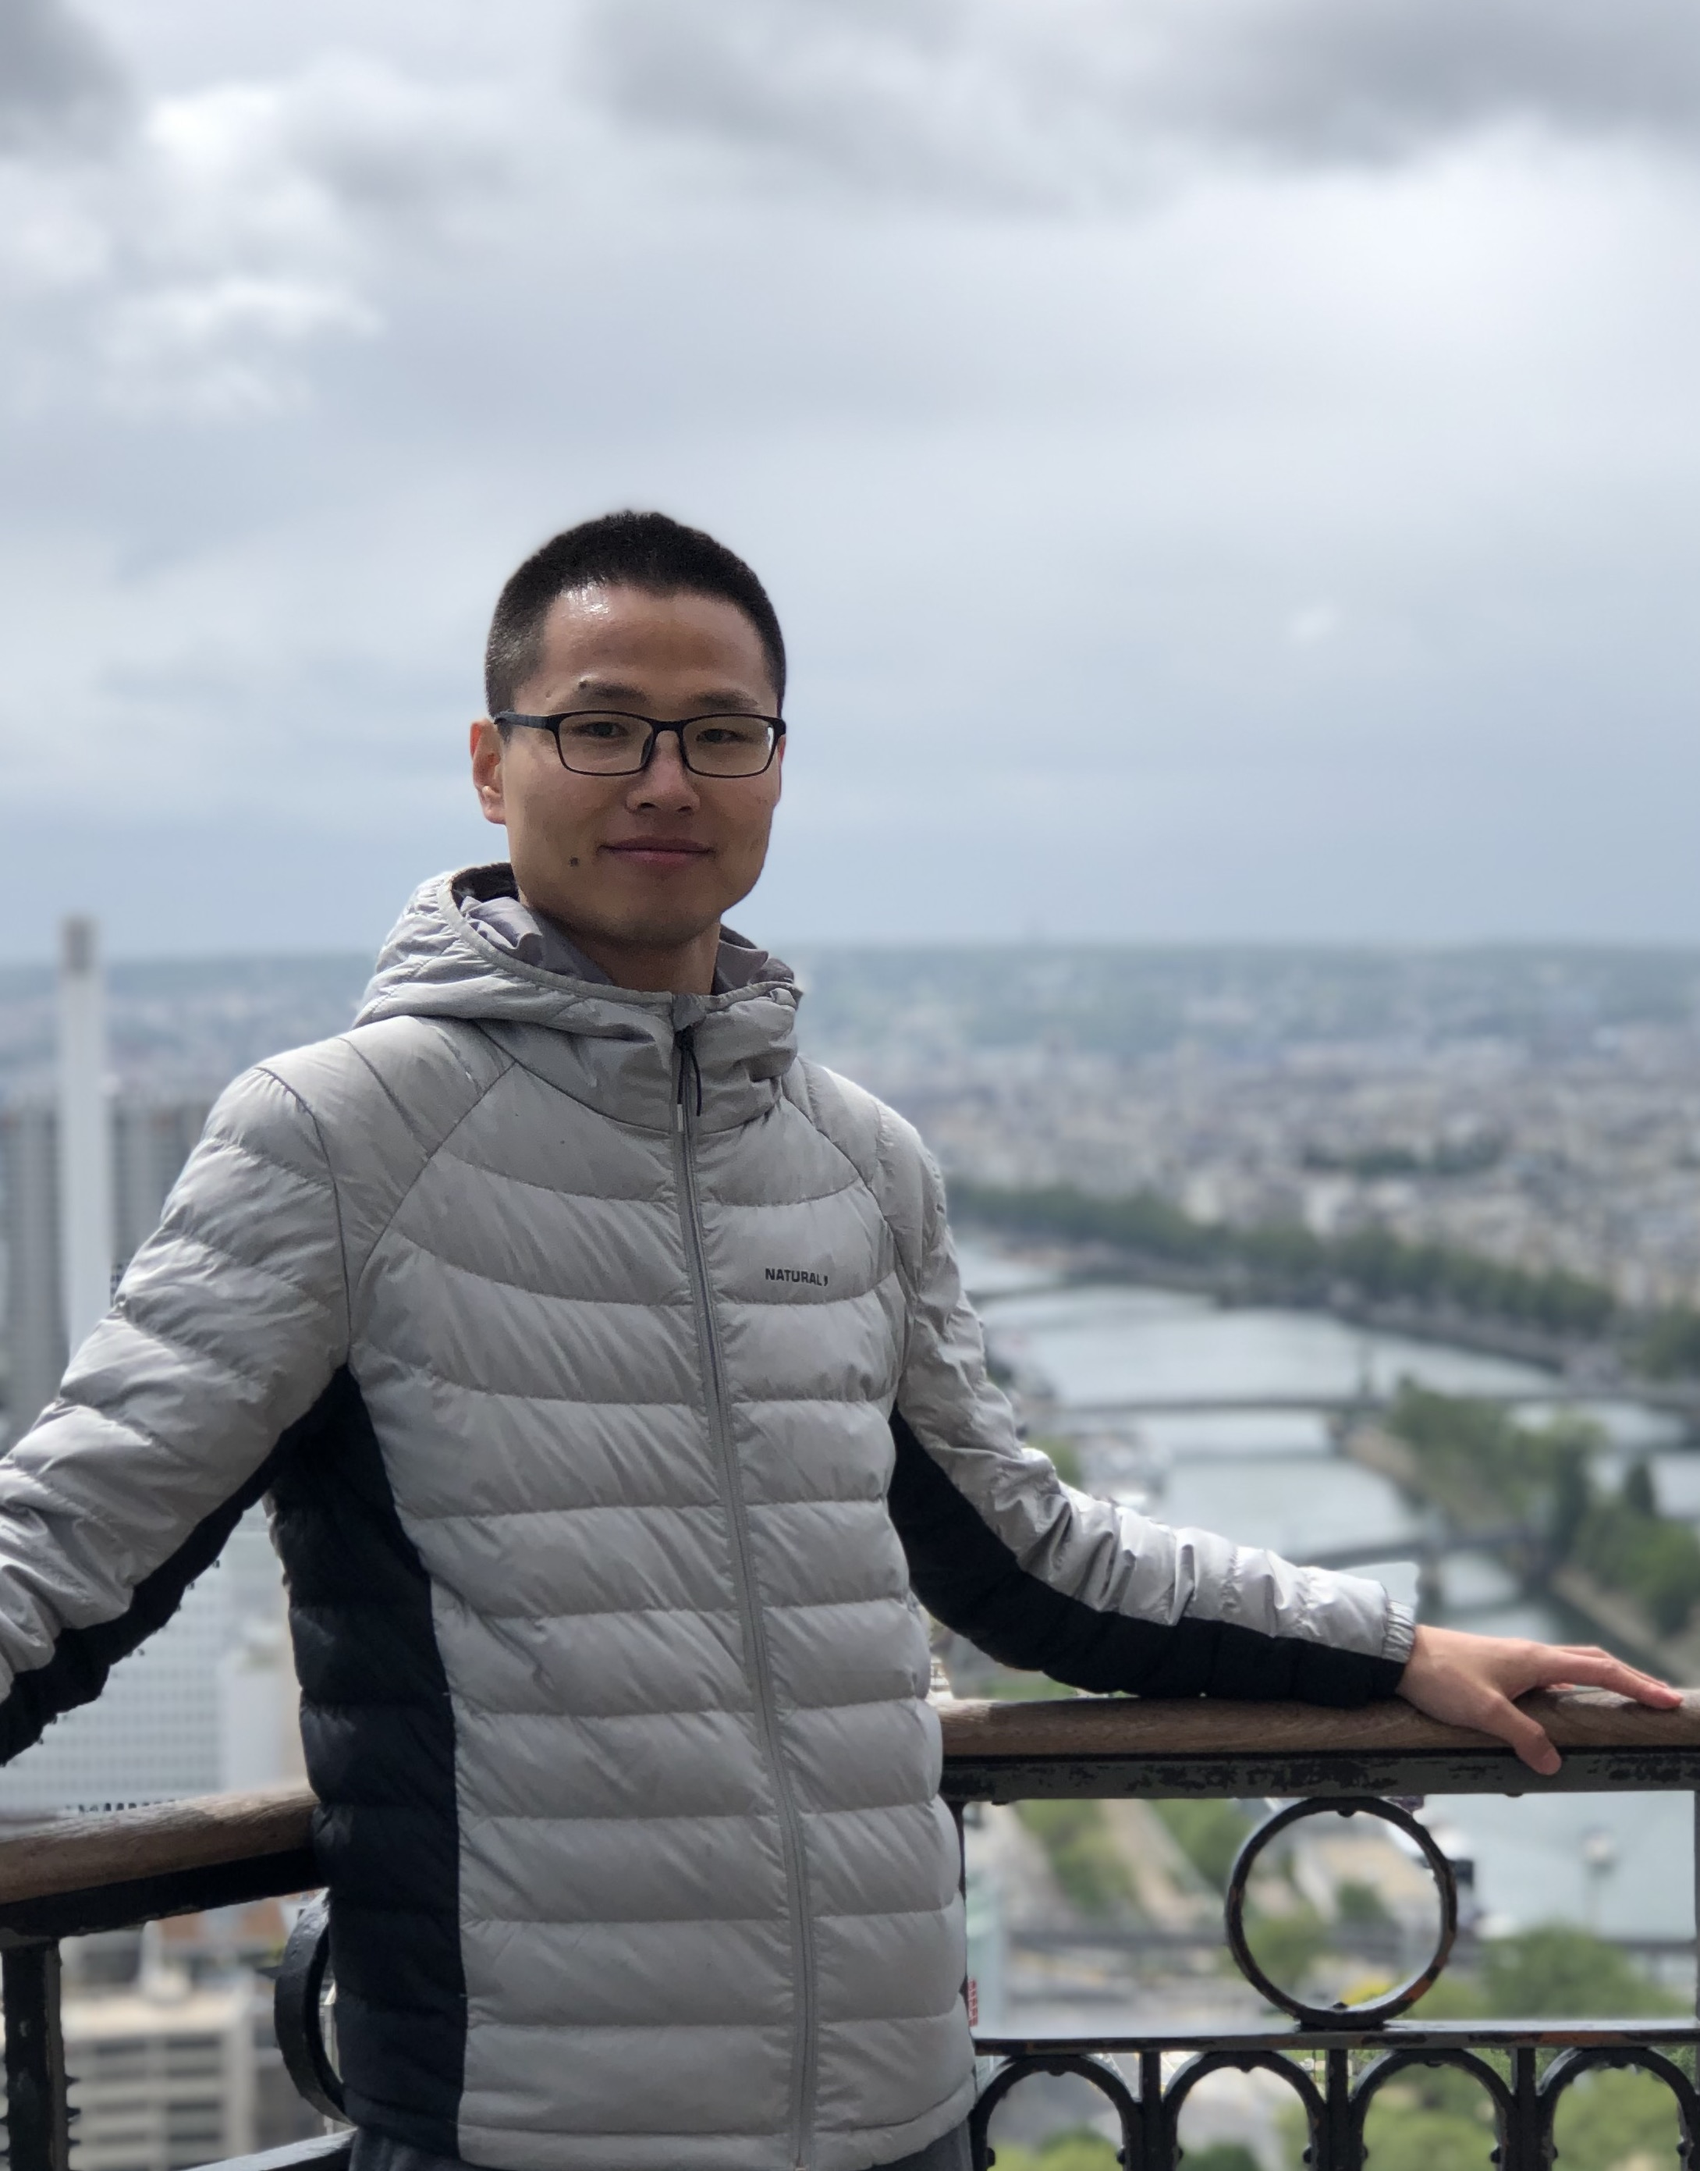
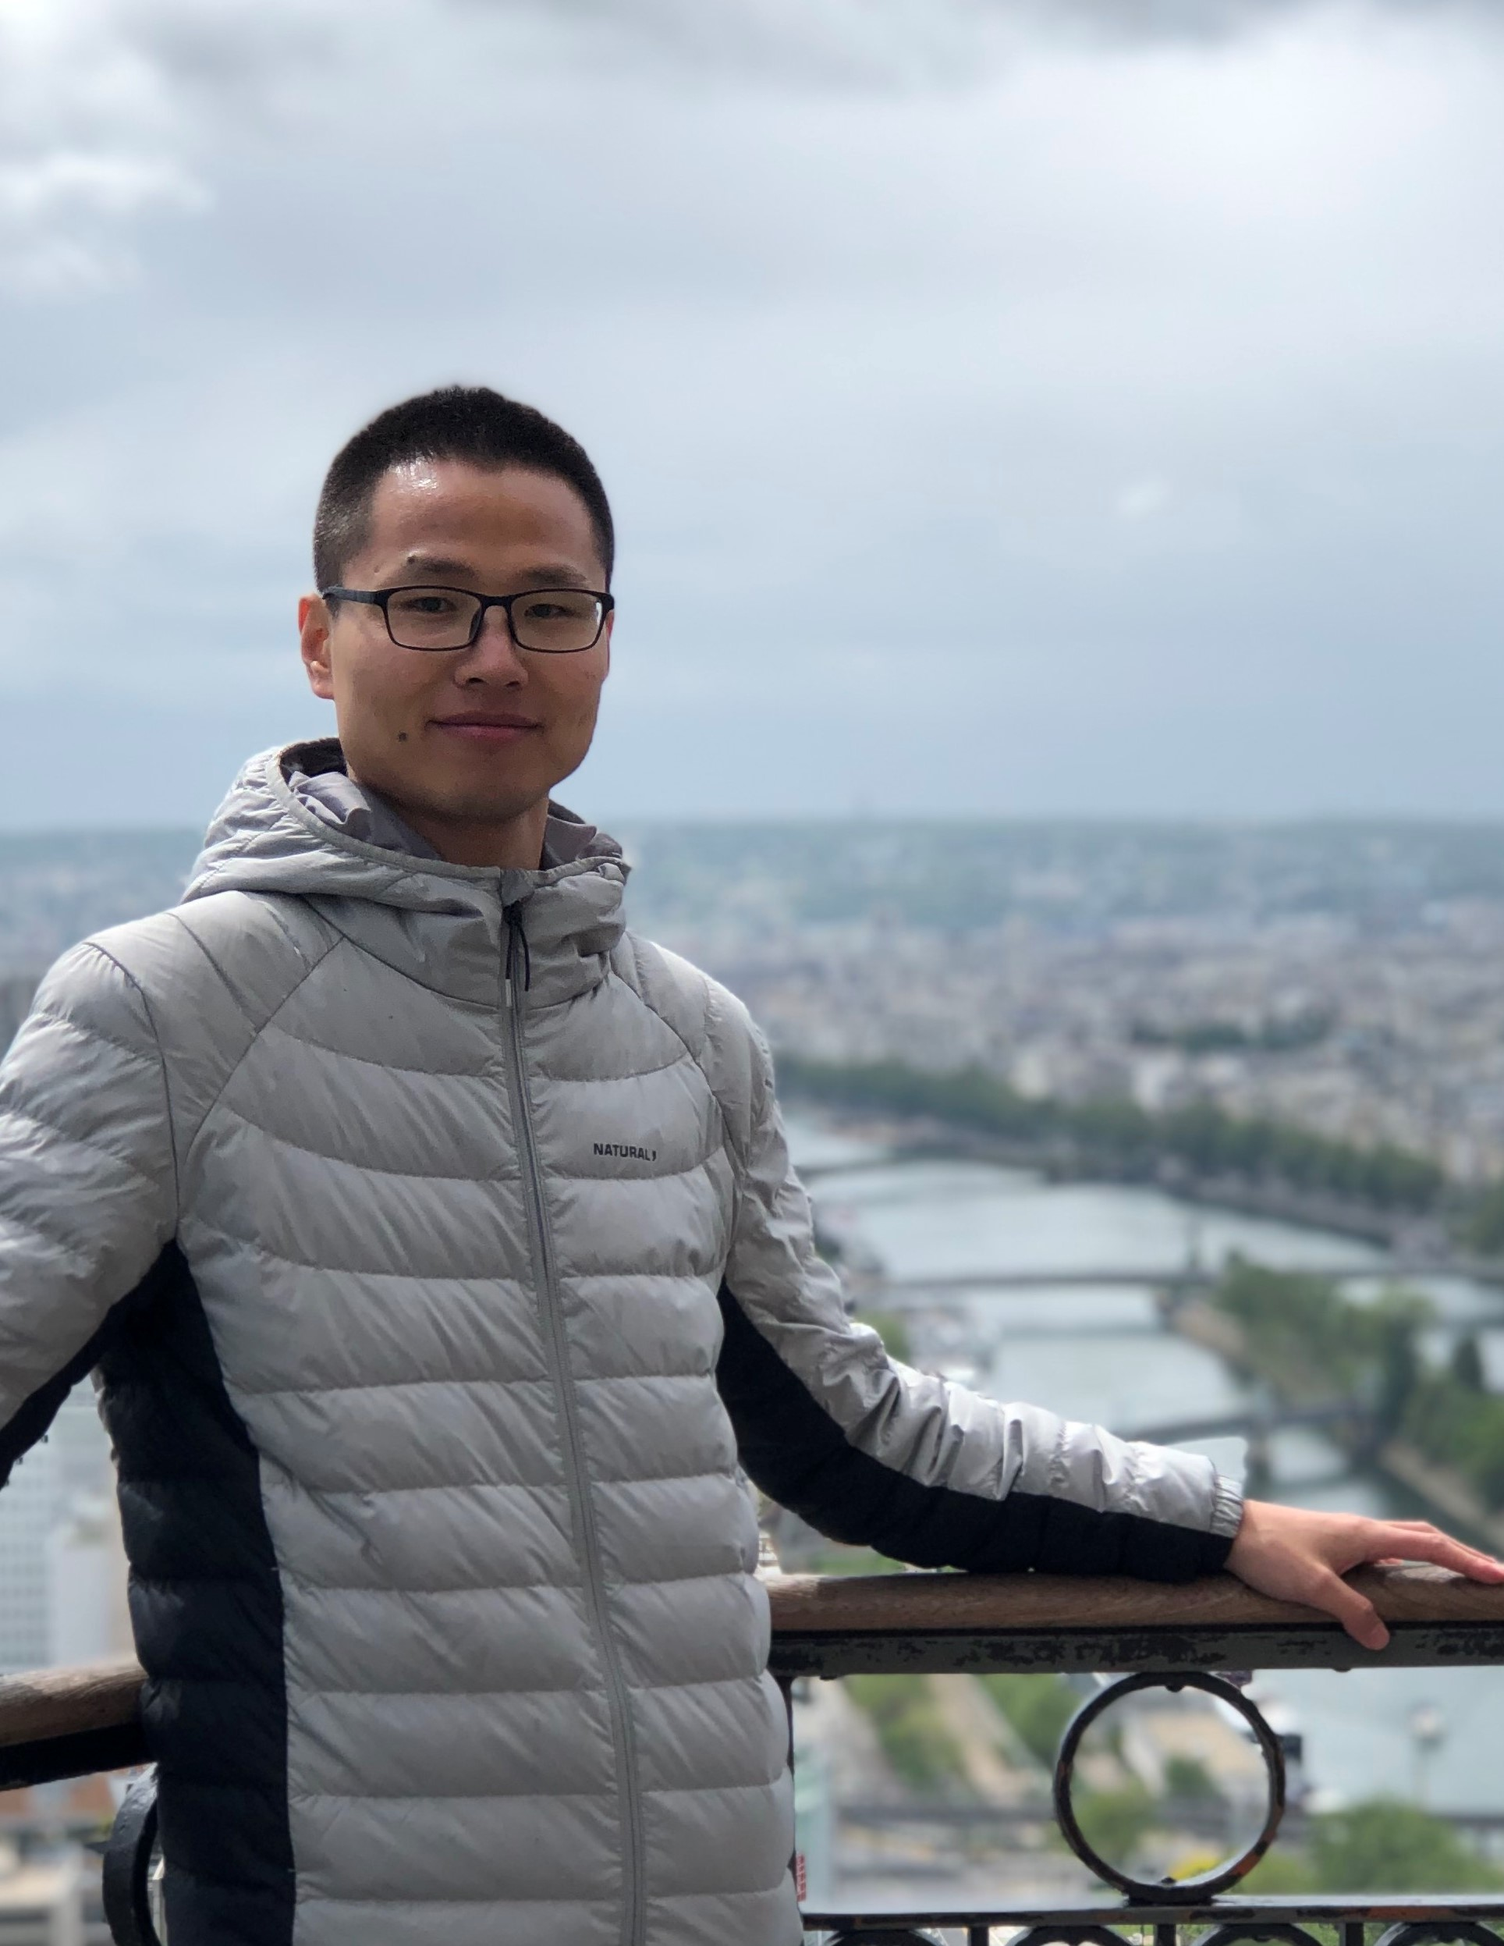
test

diff --git a/index.md b/index.md
@@ -1,5 +1,5 @@
 ## Profile
-<img align="right" img width="160" src="shuai.jpg"/>
+<img align="left" img width="200" src="shuai.jpg"/>
 
 I am a second-year Ph.D. student of [Network Architecture, System and Protocols (NASP)](https://nasp.cs.tsinghua.edu.cn/) Research Group in the Department of Computer Science and Technology in Tsinghua University, under the supervision of [A/Prof. Dan Li](https://nasp.cs.tsinghua.edu.cn/lidan.html).
 
